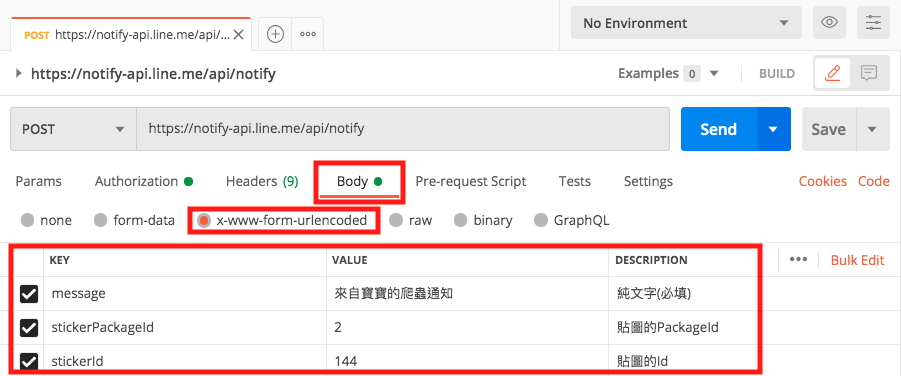
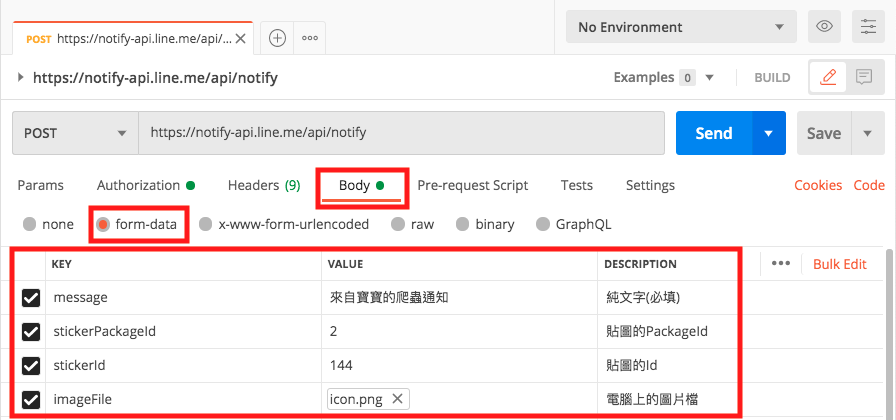
確認form-data可以用來line notify，完成day28

diff --git a/day29/tools/lineNotify.js b/day29/tools/lineNotify.js
@@ -1,5 +1,5 @@
 const axios = require('axios')
-const querystring = require('querystring');
+var FormData = require('form-data');
 require('dotenv').config();
 module.exports.lineNotify = lineNotify;
 async function combineErrMsg (error_title_array, type) {
@@ -26,26 +26,29 @@ async function lineNotify (time, ig_total_page, fb_total_page, ig_error_title_ar
         `\n總計掃描FB粉專: ${fb_total_page} 、IG粉專: ${ig_total_page}` +
         `\nGoogle Sheet: https://docs.google.com/spreadsheets/d/${process.env.SPREADSHEET_ID}` +
         error_msg;
+    
+    const form_data = new FormData();
+    form_data.append("message", message);
+
+    const headers = Object.assign({
+        'Authorization': `Bearer ${token}`
+    }, form_data.getHeaders());
+
     axios({
         method: 'post',
         url: 'https://notify-api.line.me/api/notify',
-        data: querystring.stringify({
-            message: message,
-        }),
-        headers: {
-            'Authorization': `Bearer ${token}`,
-            'Content-Type': 'application/x-www-form-urlencoded'
-        }
+        data: form_data,
+        headers: headers
     }).then(function (response) {
-        // status 為 200 代表正常
-        console.log(response.status);
-        // 從回傳的 resonse 判斷是否正常傳送訊息
+        // HTTP狀態碼 200 代表成功
+        console.log("HTTP狀態碼:" + response.status);
+        // 觀察回傳的資料是否與 POSTMAN 測試一致
         console.log(response.data);
     }).catch(function (error) {
         console.error("LINE通知發送失敗");
         if (error.response) { // 顯示錯誤原因            
+            console.error("HTTP狀態碼:" + error.response.status);
             console.error(error.response.data);
-            console.error(error.response.status);
         } else {
             console.error(error);
         }

diff --git a/day28/tools/lineNotify.js b/day28/tools/lineNotify.js
@@ -1,33 +1,37 @@
 const axios = require('axios')
-const querystring = require('querystring');
+var FormData = require('form-data');
 require('dotenv').config();
 
 function lineNotify () {
     const token = process.env.LINE_TOKEN;
+    
+    // 使用 form-data 傳遞資料
+    const form_data = new FormData();
+    form_data.append("message", '測試 lineNotify');
+
+    // 設定 LINE Notify 的 權杖 & form-data
+    const headers = Object.assign({
+        'Authorization': `Bearer ${token}`
+    }, form_data.getHeaders());
+    
     axios({
         method: 'post',
         url: 'https://notify-api.line.me/api/notify',
-        data: querystring.stringify({
-            message: '測試 lineNotify',
-        }),
-        headers: {
-            'Authorization': `Bearer ${token}`,
-            'Content-Type': 'application/x-www-form-urlencoded'
-        }
+        data: form_data,
+        headers: headers
     }).then(function (response) {
-        // status 為 200 代表正常
-        console.log(response.status);
-        // 從回傳的 resonse 判斷是否正常傳送訊息
+        // HTTP狀態碼 200 代表成功
+        console.log("HTTP狀態碼:" + response.status);
+        // 觀察回傳的資料是否與 POSTMAN 測試一致
         console.log(response.data);
     }).catch(function (error) {
         console.error("LINE通知發送失敗");
         if (error.response) { // 顯示錯誤原因            
+            console.error("HTTP狀態碼:" + error.response.status);
             console.error(error.response.data);
-            console.error(error.response.status);
         } else {
             console.error(error);
         }
     });
 }
-// 測試是否成功發出訊息
 lineNotify() 

diff --git a/day28/README.md b/day28/README.md
@@ -1,18 +1,181 @@
 #### [回目錄](../README.md)
-## Day27 為爬蟲加上通知 - 用 xmlhttprequest 發出 LINE 通知
+## Day28 為爬蟲加上通知 - 用 axois 發出 LINE 通知
 
 在昨天用 POSTMAN 驗證 LINE Notify 的 api 可以使用後，今天我們就要在專案中增加發出 LINE 通知的功能
 
+Node.js 中能實現這個目標的套件其實挺多的：[superagent](https://www.npmjs.com/package/superagent)、[got](https://www.npmjs.com/package/got)、[axios](https://www.npmjs.com/package/axios)...，`今天我們採用axios來實現這個需求`，如果你有興趣你也可以使用不同的套件來完成今天的功能
+>PS.其實我一開始是用 [xmlhttprequest](https://www.npmjs.com/package/xmlhttprequest) 這個遠古套件完今天功能的
 ----
 
 🏆 今日目標
 ----
-1. 
+### 1. axois 基礎介紹
+1.1 安裝 / GET / POST 基礎用法
+1.2 請求配置說明
+### 2. 用 axois 發出 LINE 通知 
 
+----
+
+# 1. axois 基礎介紹
+
+### 1.1 安裝 / GET / POST 基礎用法
+* **安裝**
+    ```vim
+    npm install axios
+    yarn add axios
+    ```
+* **GET 基礎用法**
+    ```js
+    const axios = require('axios'); // 引入套件
+    axios.get('url/users', { // 填入 api 網址
+        params: { // 傳入 params 物件
+            ID: 12345
+        }
+    })
+    .then(function (response) { 
+        // 處理成功後要做的事
+        console.log(response);
+    })
+    .catch(function (error) {
+        // 發生意外地處理
+        console.log(error);
+    })
+    ```
+* **POST 基礎用法**
+    ```js
+    axios.post('url/users', { // 要傳送的資料由後方物件帶入
+        firstName: 'Fred',
+        lastName: 'Flintstone'
+    })
+    .then(function (response) {
+        console.log(response);
+    })
+    .catch(function (error) {
+        console.log(error);
+    });
+    ```
+### 1.2 請求配置說明
+* **axios 的組成結構**：
+    ```js
+    axios.(config 物件)
+    .then(function (response) {})
+    .catch(function (error) {});
+    ```
+* `config 物件`：發出 Request 的配置選項，其中只有 url 為必填
+    ```js
+    {
+        // url 為必填
+        url: '/users',
+
+        // method 是發出 Request 時使用的方法
+        method: 'get', // 默認為 get
+
+        // baseURL 如果填寫就會被添加到 url 前面，除非 url 為絕對路徑
+        baseURL: 'https://some-domain.com/api/',
+
+        // 你可以在這個地方定義自己的 headers
+        // 通常會拿來設定 Authorization、Content-Type
+        headers: {'Content-Type': 'application/json'},
+
+        // params 通常跟著 GET method 一起使用
+        // 這裡填寫的參數會帶入 url 後面，ex : .../user?ID=123
+        params: {
+            ID: 123
+        },
+
+        // data 只適用於 POST、PUT、PATCH 這幾個 method
+        // 主要作為 Request 傳送的資料
+        data: {
+            firstName: 'Fred'
+        },
+
+        // Request 時間超過 1000毫秒(1秒)後會被中止
+        timeout: 1000,
+
+        // 選項: 'arraybuffer', 'document', 'json', 'text', 'stream'
+        // 瀏覽器才有 'blob'
+        responseType: 'json', // 默認為 json
+
+         // 限制 http 回應時的內容大小
+        maxContentLength: 2000,
+    }
+    ```
+    > 這裡只列出常用的配置選項，如果你有興趣深入研究請參考[官方文件](https://www.npmjs.com/package/axios#request-config)
+* **使用 then 時，會得到如下回應**
+    ```js
+    axios.get('/users/123')
+    .then(function(response) {
+        console.log(response.data); // api 回傳的資料會在這裡
+        console.log(response.status); // 這個是 HTTP狀態碼
+        console.log(response.config); // 這個 Request 的 config
+    });
+    ```
+
+----
+
+# 2. 用 axois 發出 LINE 通知
+在對 axois 有基礎了解後我們就把昨日在 POSTMAN 設定 Request 的參數搬移到專案程式吧，`在專案 tools 資料夾內新增 lineNotify.js`，今天我們要用這隻程式發出 LINE 通知
+
+#### tools/lineNotify.js
+```js
+const axios = require('axios')
+var FormData = require('form-data');
+require('dotenv').config();
+
+function lineNotify () {
+    const token = process.env.LINE_TOKEN;
+    
+    // 使用 form-data 傳遞資料
+    const form_data = new FormData();
+    form_data.append("message", '測試 lineNotify');
+
+    // 設定 LINE Notify 的 權杖 & form-data
+    const headers = Object.assign({
+        'Authorization': `Bearer ${token}`
+    }, form_data.getHeaders());
+    
+    axios({
+        method: 'post',
+        url: 'https://notify-api.line.me/api/notify',
+        data: form_data,
+        headers: headers
+    }).then(function (response) {
+        // HTTP狀態碼 200 代表成功
+        console.log("HTTP狀態碼:" + response.status);
+        // 觀察回傳的資料是否與 POSTMAN 測試一致
+        console.log(response.data);
+    }).catch(function (error) {
+        console.error("LINE通知發送失敗");
+        if (error.response) { // 顯示錯誤原因            
+            console.error("HTTP狀態碼:" + error.response.status);
+            console.error(error.response.data);
+        } else {
+            console.error(error);
+        }
+    });
+}
+lineNotify() 
+```
+
+----
+
+🚀 執行程式
+----
+在專案資料夾的終端機(Terminal)執行指令
+```vim
+node tools/lineNotify.js
+```
+確認印出的 HTTP狀態碼 & 回傳的資料與 POSTMAN 一致
+![image](./article_img/terminal.png)
+如果你的 LINE 收到發出的通知就代表你成功嚕！
+![image](./article_img/lineMsg.png)
+
+----
 
 📖 參考資源
 ----
-1. [Node.js 環境建置，執行xmlhttprequest](http://white5168.blogspot.com/2017/01/nodejs-xmlhttprequest.html#.X32HPZMzb64)
-2. [XMLHttpRequest.readyState](https://developer.mozilla.org/zh-TW/docs/Web/API/XMLHttpRequest/readyState)
+1. [由前端request 的幾種方法](https://medium.com/dot-js/%E7%94%B1%E5%89%8D%E7%AB%AFrequest-%E7%9A%84%E5%B9%BE%E7%A8%AE%E6%96%B9%E6%B3%95-fbf8a0b4023a)
+2. [5 Ways to Make HTTP Requests in Node.js](https://www.twilio.com/blog/2017/08/http-requests-in-node-js.html)
+3. [axios 基本使用 & Config](https://ithelp.ithome.com.tw/articles/10212120)
 
 ### [Day29 為爬蟲加上通知 - 成功收到 LINE 通知爬蟲摘要訊息，專案大功告成！](/day26/README.md)

diff --git a/day27/README.md b/day27/README.md
@@ -65,19 +65,20 @@
         * **Token**：填入你剛剛在 LINE Notify 申請的權杖
         > ![image](./article_img/POSTMANAuthorization.png)
     * **Body**：
-        * **x-www-form-urlencoded**：
+        * **form-data**：
             key|value|DESCRIPTION
             ---|---|---
-            message|來自寶寶的爬蟲通知|純文字
+            message|來自寶寶的爬蟲通知|純文字(必填)
             stickerPackageId|2|貼圖的PackageId
             stickerId|144|貼圖的Id
+            imageFile|icon.png|電腦上的圖片檔
         > ![image](./article_img/POSTMANBody.png)
         DESCRIPTION 是我對參數描述，實作上可以不避填
         如果你想深入的了解可以參考[官方文件](https://notify-bot.line.me/doc/en/)
 2. 完成 Request 參數填寫後按下 `Send` 發出 LINE 訊息
     * 看到 Response 的結果，status 為 200 代表傳送成功
         ![image](./article_img/POSTMANResponse.png)
-    * 在發行權杖的聊天室中，看到 POSTMAN 傳送的 **訊息、貼圖**
+    * 在發行權杖的聊天室中，看到 POSTMAN 傳送的 **訊息、貼圖、圖片**
         ![image](./article_img/POSTMANMsg.png)
 
 
@@ -103,4 +104,4 @@
 3. [Postman 新手教學](https://tw.alphacamp.co/blog/postman-api-tutorial-for-beginners)
 4. [HTTP 狀態碼一覽表](https://blog.poychang.net/http-status-code/)
 
-### [Day28 為爬蟲加上通知 - 用 xmlhttprequest 發出 LINE 通知](/day26/README.md)
+### [Day28 為爬蟲加上通知 - 用 axois 發出 LINE 通知](/day26/README.md)

diff --git a/README.md b/README.md
@@ -62,7 +62,7 @@
 
 * 通知設定
     * [Day27 為爬蟲加上通知 - 透過 POSTMAN 了解 LINE Notify 如何使用](/day27/README.md)
-    * [Day28 為爬蟲加上通知 - 用 xmlhttprequest 發出 LINE 通知](/day28/README.md)
+    * [Day28 為爬蟲加上通知 - 用 axois 發出 LINE 通知](/day28/README.md)
     * [Day29 為爬蟲加上通知 - 成功收到 LINE 通知爬蟲摘要訊息，專案大功告成！](/day29/README.md)
 
 * 後話
